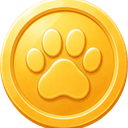
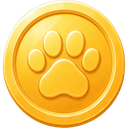
Cooperative Olympaws House level + collapsible badges
- Trophy / "Nico is ahead" / tie text is gone. Stats now opens with
  a big card showing the temple icon, "OLYMPAWS HOUSE", "Level N",
  and a gradient progress bar with "X pts to Level N+1" underneath.
  Reframed as the household leveling up together, not competing.
- Per-person monthly leaderboard rows still show pts done + streak
  as informational stats, just no leader callout above them.

- Badges card defaults to top 5 unlocked badges (sorted newest first)
  on a single row. Tapping the card expands to the full 50-badge grid
  with locked ones below; tap again to collapse. Empty state nudges
  the user to expand.

- Purr coin PNG re-rendered with padding instead of a center crop, so
  the top/bottom of the coin doesn't get clipped at the source.

- New /icons/level.png (gold temple) added to the SW shell.

SW cache → v47.

https://claude.ai/code/session_017kQcqbUebQmkDWEybeQ2Dq

diff --git a/index.html b/index.html
@@ -1301,17 +1301,22 @@
     var total=counts[0]+counts[1];
     var leader = counts[0]===counts[1] ? -1 : (counts[0]>counts[1]?0:1);
 
-    // trophy + couple level
-    var trophy=h("div",{class:"trophy"});
-    if(total===0){ trophy.appendChild(h("span",{class:"big",text:"🌱"})); trophy.appendChild(document.createTextNode("Nothing done yet")); }
-    else if(leader===-1){ trophy.appendChild(h("span",{class:"big",text:"🤝"})); trophy.appendChild(document.createTextNode("Tie! "+counts[0]+" – "+counts[1])); }
-    else { trophy.appendChild(h("span",{class:"big",text:"🏆"})); trophy.appendChild(document.createTextNode(S.names[leader]+" is ahead")); }
+    // Big Olympaws House level header — cooperative framing replaces the leader trophy.
     var lvl = coupleLevelInfo();
-    trophy.appendChild(h("div",{style:"margin-top:8px;font-size:12px;color:var(--muted);font-weight:600;letter-spacing:0.04em;",
-      text:"Home · Level "+lvl.level+(lvl.level<999 ? " · "+lvl.toNext+" pts to L"+(lvl.level+1) : "")
-    }));
+    var prevThreshold = lvl.level * lvl.level * 25;
+    var span = Math.max(1, lvl.nextThreshold - prevThreshold);
+    var into = Math.max(0, lvl.total - prevThreshold);
+    var progressPct = Math.min(100, Math.round(into / span * 100));
+    var levelCard = h("div",{class:"vs-card", style:"text-align:center;padding:22px 18px 20px;"},
+      h("img",{src:"./icons/level.png", alt:"Olympaws House", style:"width:120px;height:120px;display:block;margin:0 auto 6px;"}),
+      h("div",{style:"font-size:12px;letter-spacing:0.2em;text-transform:uppercase;color:var(--muted);font-weight:700;", text:"Olympaws House"}),
+      h("div",{style:"font-size:30px;font-weight:800;margin-top:2px;", text:"Level "+lvl.level}),
+      h("div",{class:"vs-bar", style:"margin-top:14px;"}, h("div",{class:"vs-fill", style:"width:"+progressPct+"%;background:linear-gradient(135deg,var(--accent1),var(--accent2));"})),
+      h("div",{style:"font-size:12px;color:var(--muted);font-weight:600;margin-top:8px;", text: lvl.toNext+" pts to Level "+(lvl.level+1)})
+    );
+    wrap.appendChild(levelCard);
 
-    var card=h("div",{class:"vs-card"}, trophy);
+    var card=h("div",{class:"vs-card"});
     [0,1].forEach(function(p){
       var pct = total? Math.round(counts[p]/total*100) : 0;
       var streak = computeStreak(p);
@@ -1410,30 +1415,50 @@
       wrap.appendChild(logCard);
     }
 
-    // ---------- Badges (Phase 5) ----------
+    // ---------- Badges (Phase 5 + collapse/expand) ----------
     var defs = badgeDefs();
     var unlockedCount = 0;
     defs.forEach(function(b){ if(S.badges[b.id]) unlockedCount++; });
+    // Sorted unlocked badges, newest first; the rest in their natural category order.
+    var unlockedSorted = defs.filter(function(b){ return S.badges[b.id]; })
+      .map(function(b){ return { def:b, at:S.badges[b.id] }; })
+      .sort(function(a,b){ return String(b.at).localeCompare(String(a.at)); })
+      .map(function(x){ return x.def; });
+    var lockedInOrder = defs.filter(function(b){ return !S.badges[b.id]; });
+    var visible = badgesExpanded ? unlockedSorted.concat(lockedInOrder) : unlockedSorted.slice(0,5);
+
     wrap.appendChild(h("div",{class:"section-title", text:"Badges  ("+unlockedCount+" / "+defs.length+")"}));
-    var bCard = h("div",{class:"vs-card", style:"padding:14px 12px;"});
-    var grid = h("div",{style:"display:grid;grid-template-columns:repeat(4,1fr);gap:10px;"});
-    defs.forEach(function(b){
-      var got = !!S.badges[b.id];
-      var iconEl;
-      if(!got){
-        iconEl = h("div",{style:"font-size:30px;", text:"🔒"});
-      } else if(b.img){
-        iconEl = h("img",{src:b.img, alt:b.name, style:"width:34px;height:34px;display:block;margin:0 auto;"});
-      } else {
-        iconEl = h("div",{style:"font-size:30px;", text:b.icon});
-      }
-      var cell = h("div",{style:"text-align:center;cursor:pointer;opacity:"+(got?"1":"0.32")+";", onClick:function(){ openBadge(b); }},
-        iconEl,
-        h("div",{style:"font-size:10px;color:var(--muted);font-weight:700;margin-top:4px;line-height:1.2;", text:got ? b.name : "Locked"})
-      );
-      grid.appendChild(cell);
+    var bCard = h("div",{class:"vs-card", style:"padding:14px 12px;cursor:pointer;",
+      onClick: function(e){ if(e.target.tagName !== "BUTTON" && !e.target.closest || !e.target.closest(".badge-cell-noexpand")){ badgesExpanded = !badgesExpanded; render(); } }
     });
+    var cols = badgesExpanded ? 4 : Math.max(1, Math.min(5, visible.length));
+    var grid = h("div",{style:"display:grid;grid-template-columns:repeat("+cols+",1fr);gap:10px;"});
+    if(visible.length === 0){
+      grid.appendChild(h("div",{style:"grid-column:1/-1;text-align:center;color:var(--muted);font-size:13px;padding:8px 0;", text:"No badges yet — tap to see what's available."}));
+    } else {
+      visible.forEach(function(b){
+        var got = !!S.badges[b.id];
+        var iconEl;
+        if(!got){
+          iconEl = h("div",{style:"font-size:30px;", text:"🔒"});
+        } else if(b.img){
+          iconEl = h("img",{src:b.img, alt:b.name, style:"width:34px;height:34px;display:block;margin:0 auto;"});
+        } else {
+          iconEl = h("div",{style:"font-size:30px;", text:b.icon});
+        }
+        var cell = h("div",{class:"badge-cell-noexpand", style:"text-align:center;cursor:pointer;opacity:"+(got?"1":"0.32")+";",
+          onClick:function(e){ e.stopPropagation(); openBadge(b); }
+        },
+          iconEl,
+          h("div",{style:"font-size:10px;color:var(--muted);font-weight:700;margin-top:4px;line-height:1.2;", text:got ? b.name : "Locked"})
+        );
+        grid.appendChild(cell);
+      });
+    }
     bCard.appendChild(grid);
+    bCard.appendChild(h("div",{style:"text-align:center;font-size:11px;color:var(--muted);font-weight:700;letter-spacing:0.08em;margin-top:12px;text-transform:uppercase;",
+      text: badgesExpanded ? "Tap to collapse" : "Tap to see all " + defs.length
+    }));
     wrap.appendChild(bCard);
 
     // "Meet the Olympaws" — small decorative card; each cat is a popup voice elsewhere.
@@ -1496,6 +1521,9 @@
     return h("div",{class:"overlay", onClick:function(e){ if(e.target.className==="overlay"){ S.modal=null; rewardEditing=null; render(); } }},
       h("div",{class:"modal"}, children));
   }
+
+  // UI-only toggle for the Badges card: top 5 by default, full grid on tap.
+  var badgesExpanded = false;
 
   // ---------- "When next?" picker for Biweekly / cycle-Monthly (Phase 6) ----------
   var whenNextCtx = null;

diff --git a/sw.js b/sw.js
@@ -10,7 +10,7 @@
  *  - Non-GET requests are never touched.
  */
 
-const CACHE = "nuestro-hogar-v46";
+const CACHE = "nuestro-hogar-v47";
 
 // The app shell. Keep this list explicit — only known static assets.
 const SHELL = [
@@ -23,7 +23,8 @@ const SHELL = [
   "./icons/cats/thor.png",
   "./icons/cats/rum.png",
   "./icons/purr.png",
-  "./icons/streak.png"
+  "./icons/streak.png",
+  "./icons/level.png"
 ];
 
 self.addEventListener("install", (event) => {